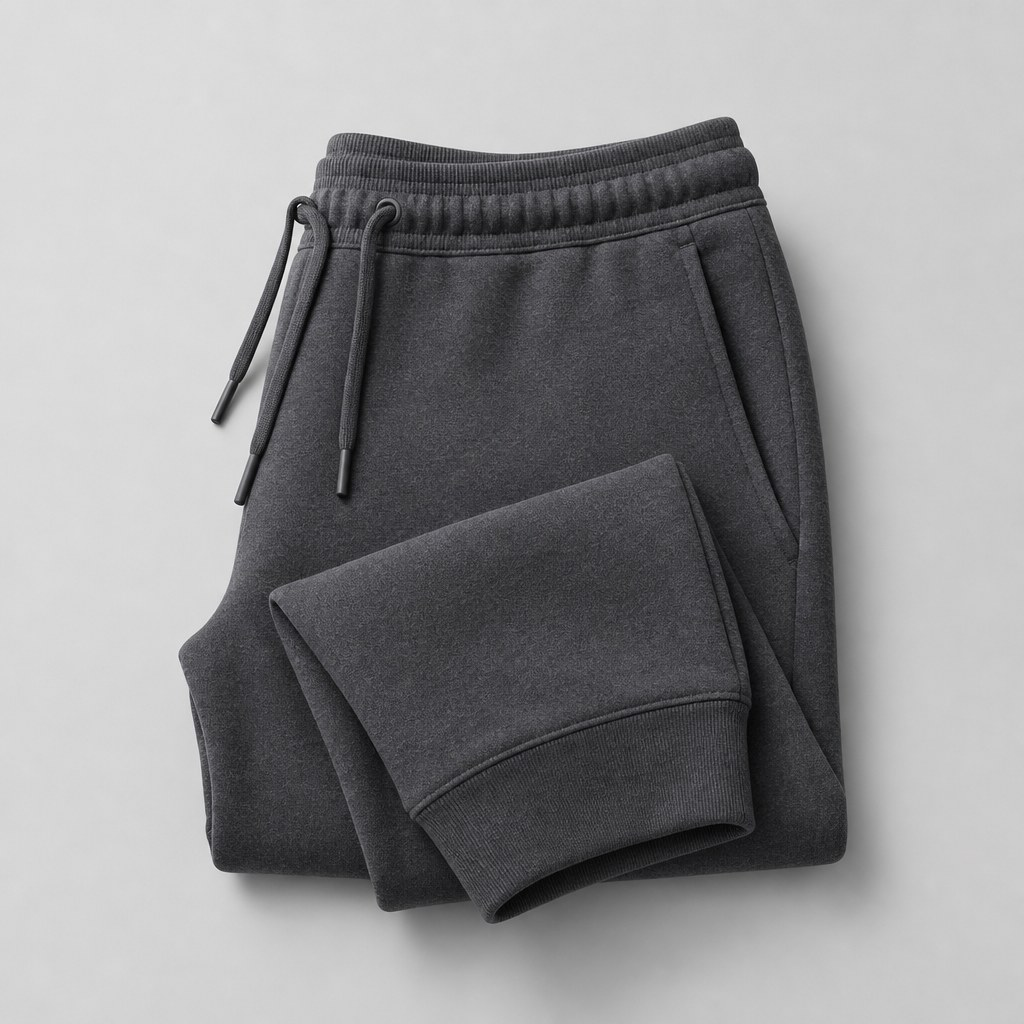
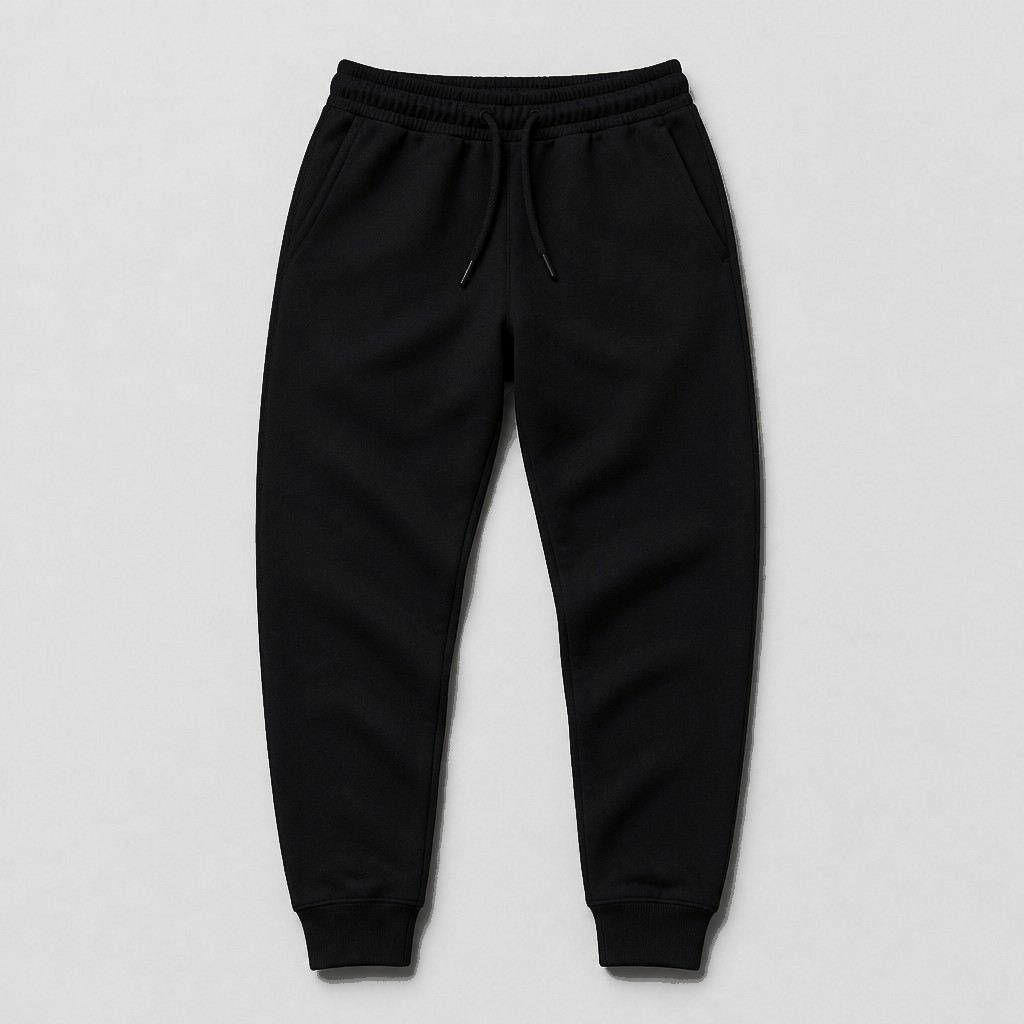
Make joggers luxury black instead of grey.
Replace the charcoal sweats listing photo with a deep matte black flat-lay and offer black as the only color so the product reads premium.

diff --git a/web/src/lib/apparel.ts b/web/src/lib/apparel.ts
@@ -199,9 +199,9 @@ export const APPAREL_CATALOG: ApparelCatalogItem[] = [
     slug: "voronyz-joggers",
     subcategory: "joggers",
     name: "Joggers",
-    description: "Tapered joggers for training days and downtime.",
+    description: "Tapered luxury black joggers for training days and downtime.",
     priceCents: 7200,
-    colors: ["black", "grey"],
+    colors: ["black"],
     sizes: [...APPAREL_SIZES],
     image: "/products/apparel/sweats.jpg",
     skuPrefix: "APP-JGR",
